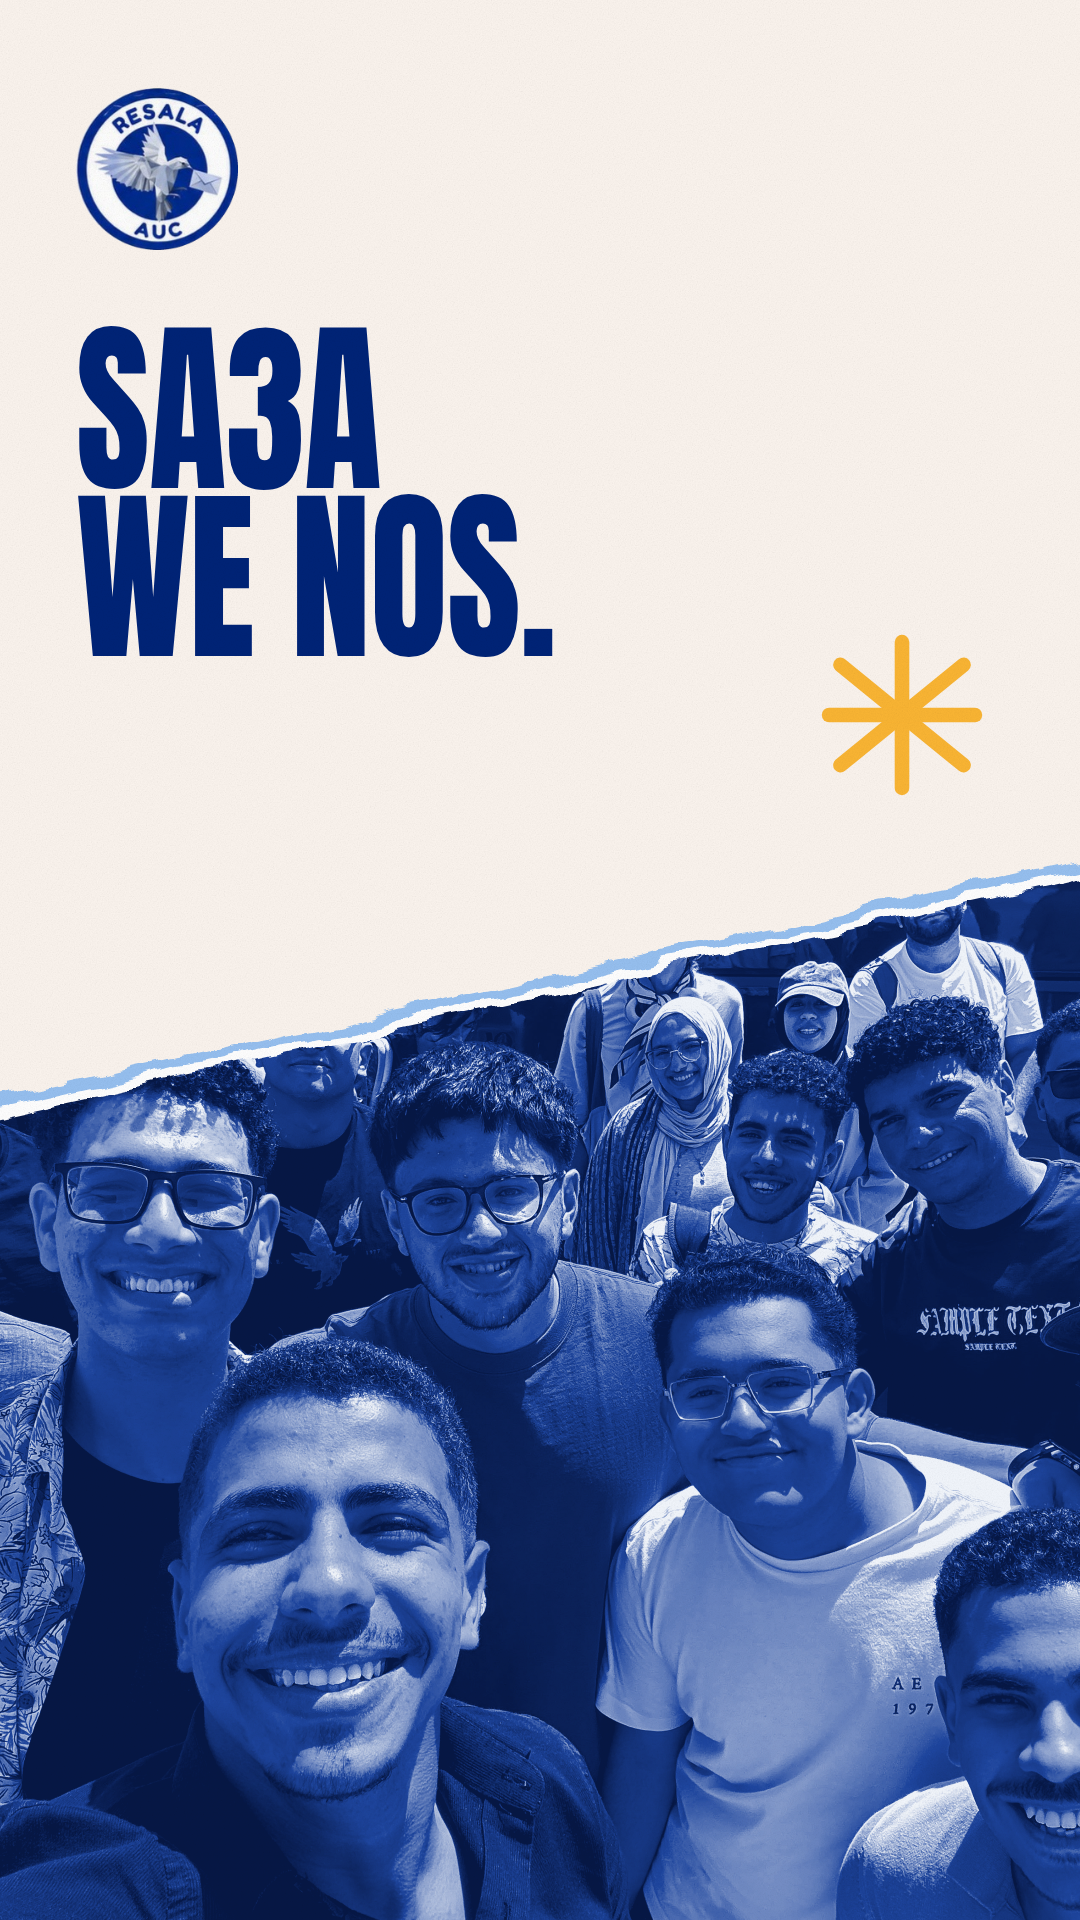
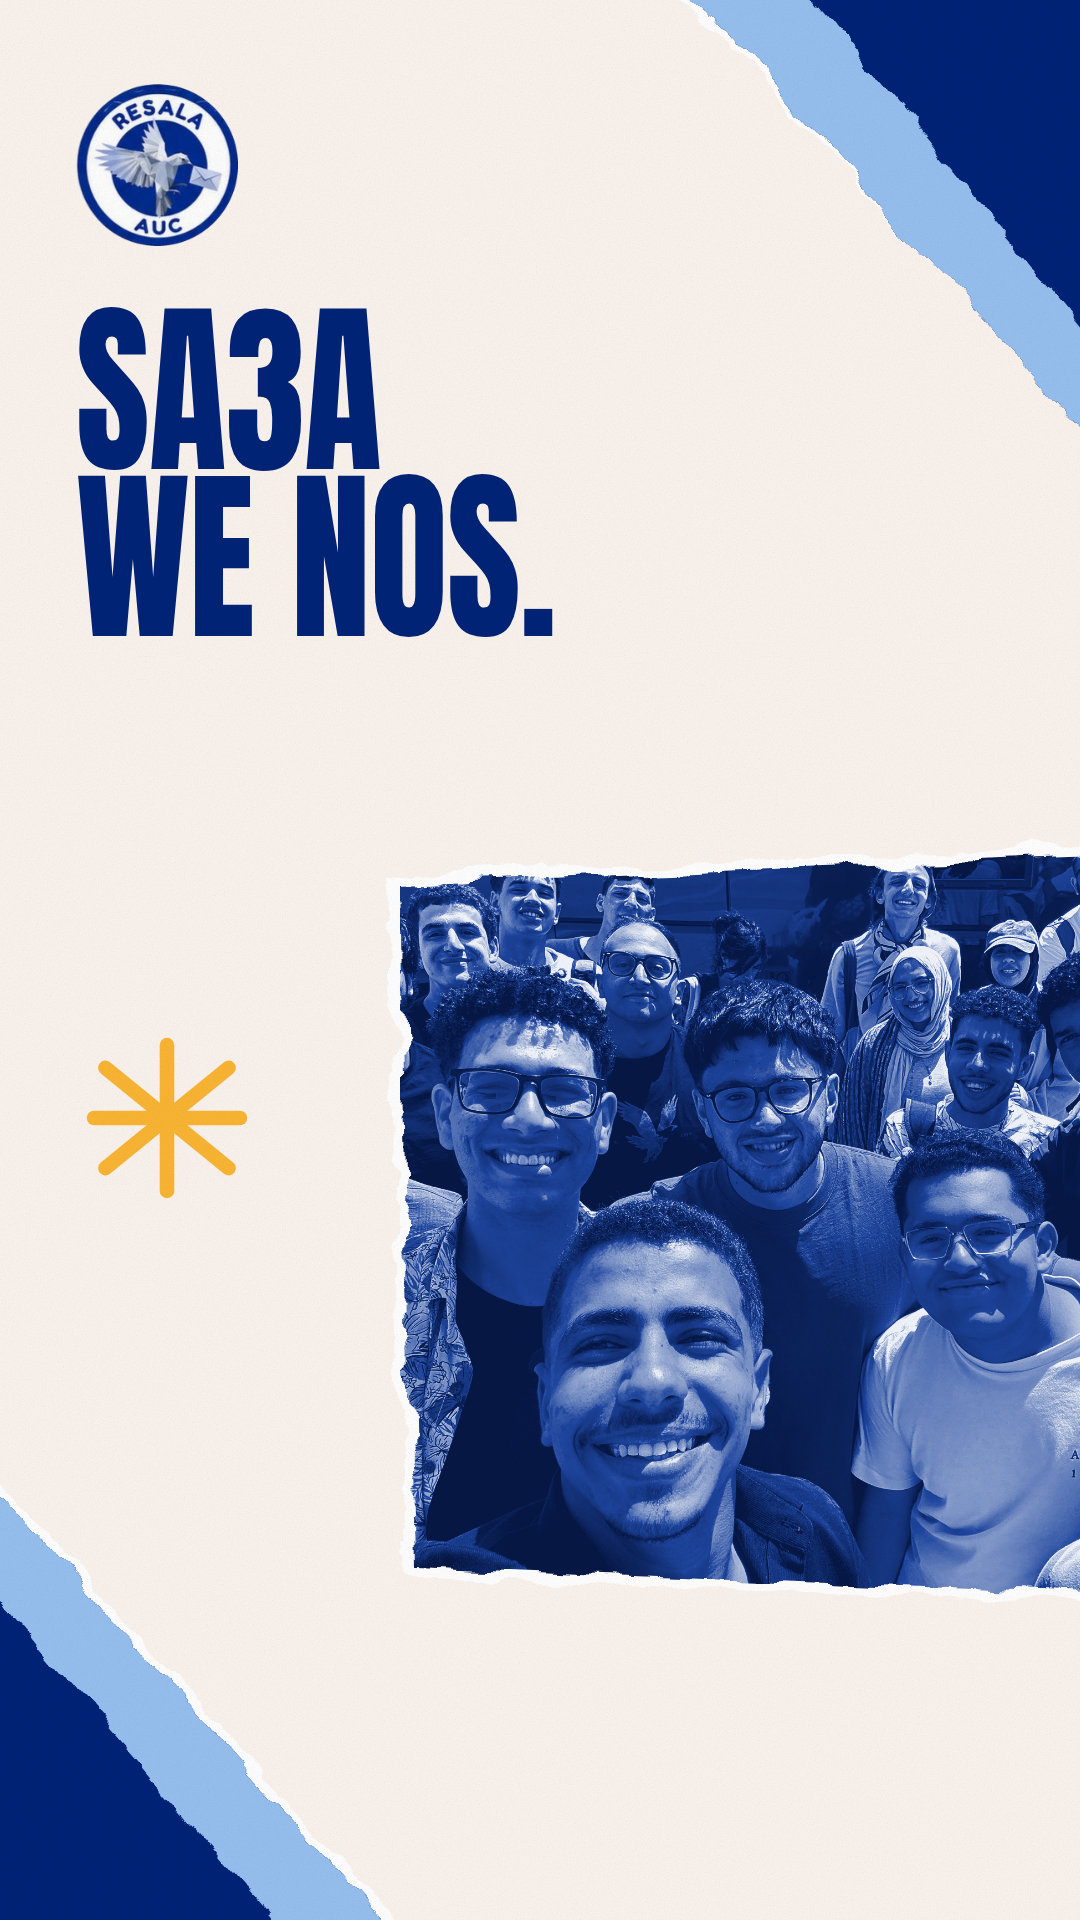
Recompose thumbnail: torn corners top-right and bottom-left, photo right of centre
Replaces the full-width bottom photo band. The blue now enters as torn corners
on opposite diagonals, layered cream -> white lip -> sky -> royal outward, and
the duotone photo sits as a torn cutout right of centre, bleeding off the right
edge so it reads as placed rather than framed.

The photo mask overshoots the canvas by 160px. The tear filter displaces every
edge it touches, so a mask edge sitting exactly on 1080 gets nibbled inward and
leaves a cream gutter down the right side instead of a bleed.

Claude-Session: https://claude.ai/code/session_01F4F32UeheBWGm1fmQ5TRVb

diff --git a/.claude/skills/resala-brand/assets/thumbnail-9x16.html b/.claude/skills/resala-brand/assets/thumbnail-9x16.html
@@ -5,14 +5,16 @@
 <title>Resala AUC — 9:16 photo thumbnail</title>
 <link rel="stylesheet" href="./fonts.css">
 <style>
-  /* 1080x1920 story/thumbnail: headline on cream over a duotone photo band
-     with a torn top edge. Colours sampled from the printed reference — the
-     board's ivory reads as white beside the real work. */
+  /* 1080x1920 story / thumbnail.
+     Cream ground, torn blue corners at top-right and bottom-left, and a
+     duotone photo cutout pushed right of centre so it sits between them.
+     Colours sampled from the printed reference — the brand board's ivory
+     reads as white beside the real work. */
   :root {
-    --cream:   #FBF4EE;   /* set above target; the grain multiplies it down */
-    --royal:   #002377;
-    --sky:     #96C0F0;
-    --yellow:  #FAB533;
+    --cream:  #FBF4EE;   /* set above target; the grain multiplies it down */
+    --royal:  #002377;
+    --sky:    #96C0F0;
+    --yellow: #FAB533;
   }
   * { margin: 0; padding: 0; box-sizing: border-box; }
 
@@ -31,10 +33,10 @@
     opacity: 0.15; mix-blend-mode: multiply;
   }
 
-  .logo { position: absolute; top: 4.6%; left: 7%; width: 15%; z-index: 6; }
+  .logo { position: absolute; top: 4.4%; left: 7%; width: 15%; z-index: 6; }
   .logo img { display: block; width: 100%; }
 
-  .headline { position: absolute; top: 17%; left: 7%; z-index: 6; }
+  .headline { position: absolute; top: 16%; left: 7%; z-index: 6; }
   .line {
     display: block;
     color: var(--royal);
@@ -48,7 +50,8 @@
     transform-origin: left top;
   }
 
-  .asterisk { position: absolute; top: 33%; right: 9%; width: 15%; z-index: 6; }
+  /* Sits in the open cream to the left of the photo block. */
+  .asterisk { position: absolute; top: 54%; left: 8%; width: 15%; z-index: 6; }
 </style>
 </head>
 <body>
@@ -61,24 +64,39 @@
         <feDisplacementMap in="SourceGraphic" in2="n" scale="30"
                            xChannelSelector="R" yChannelSelector="G"/>
       </filter>
-      <!-- The photo is masked by the torn shape rather than clipped to a
-           polygon, so the boundary reads as fibre. -->
+      <filter id="tear2" x="-10%" y="-10%" width="120%" height="120%">
+        <feTurbulence type="fractalNoise" baseFrequency="0.014 0.022"
+                      numOctaves="5" seed="61" result="n"/>
+        <feDisplacementMap in="SourceGraphic" in2="n" scale="26"
+                           xChannelSelector="R" yChannelSelector="G"/>
+      </filter>
+      <!-- The photo is masked by a torn shape rather than clipped to a
+           polygon, so its edge reads as fibre rather than as a cut. -->
       <mask id="photoMask">
         <path fill="#fff" filter="url(#tear)"
-              d="M-60,1128 L1140,865 L1140,1990 L-60,1990 Z"/>
+              d="M400,884 L1240,850 L1240,1602 L414,1568 Z"/>
       </mask>
     </defs>
 
-    <!-- Sky wedge peeking along the tear, as in the reference -->
-    <g filter="url(#tear)">
-      <path fill="#96C0F0" d="M-60,1109 L1140,846 L1140,913 L-60,1176 Z"/>
+    <!-- Top-right torn corner: cream -> white lip -> sky -> royal outward -->
+    <g filter="url(#tear2)">
+      <path fill="#FFFFFF" d="M648,-40 L1120,462 L1120,432 L672,-40 Z"/>
+      <path fill="#002377" d="M660,-40 L1120,-40 L1120,470 Z"/>
+      <path fill="#96C0F0" d="M660,-40 L1120,470 L1120,372 L784,-40 Z"/>
     </g>
 
-    <!-- Torn white lip: the frayed edge the paper leaves where it was pulled -->
-    <path fill="#FFFFFF" filter="url(#tear)"
-          d="M-60,1119 L1140,856 L1140,923 L-60,1186 Z"/>
+    <!-- Bottom-left torn corner, mirrored -->
+    <g filter="url(#tear2)">
+      <path fill="#FFFFFF" d="M-40,1438 L432,1960 L404,1960 L-40,1468 Z"/>
+      <path fill="#002377" d="M-40,1450 L420,1960 L-40,1960 Z"/>
+      <path fill="#96C0F0" d="M-40,1450 L420,1960 L306,1960 L-40,1552 Z"/>
+    </g>
 
-    <image href="./photo-duotone.png" x="0" y="860" width="1080" height="1060"
+    <!-- Duotone photo block, pushed right of centre and bleeding off the
+         right edge so it reads as placed rather than framed. -->
+    <path fill="#FFFFFF" filter="url(#tear)"
+          d="M390,874 L1250,840 L1250,1612 L404,1578 Z"/>
+    <image href="./photo-duotone.png" x="400" y="850" width="820" height="762"
            preserveAspectRatio="xMidYMid slice" mask="url(#photoMask)"/>
   </svg>
 
